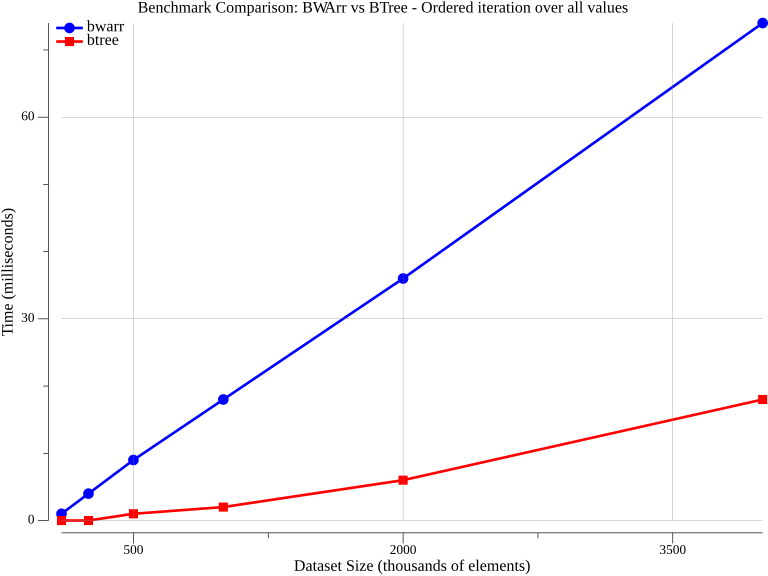
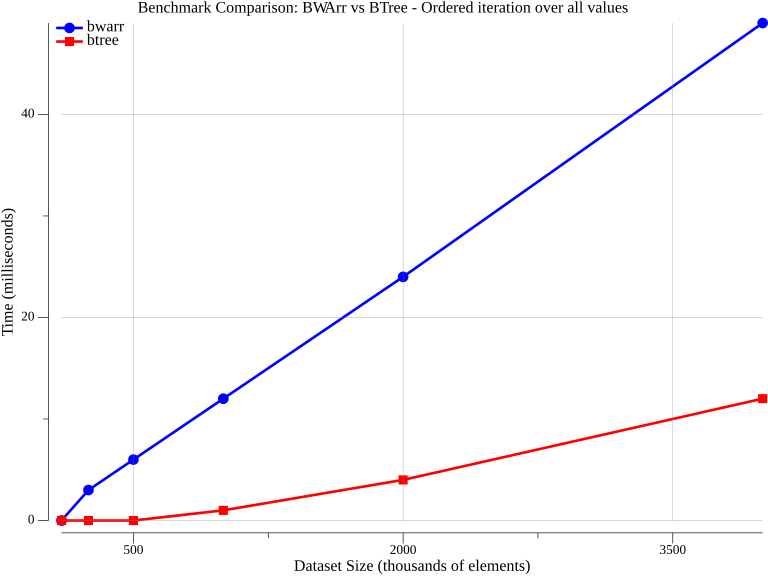
Update benchmark results against dronnix/bwarr v.1.2.0 (#6)
* Update to dronnix/bwarr v1.2.0

* Update go version

* Update golangci-lint version

diff --git a/benchmark/benchmark.go b/benchmark/benchmark.go
@@ -17,6 +17,18 @@ const (
 	BTreeDegree = 32
 )
 
+// newBWArrFromSlice builds a BWArr pre-populated with the given values.
+// It replaces bwarr.NewFromSlice, which was removed in bwarr v1.2.0.
+func newBWArrFromSlice(values []int64) *bwarr.BWArr[int64] {
+	bwa := bwarr.New(func(a, b int64) int {
+		return int(a - b)
+	}, len(values))
+	for _, v := range values {
+		bwa.Insert(v)
+	}
+	return bwa
+}
+
 // Comparison consists of multiple benchmark runs comparing two implementations.
 type Comparison struct {
 	Name           string
@@ -137,9 +149,7 @@ func BenchBTreeInsert(b *testing.B, params Params) {
 func BenchBWArrGet(b *testing.B, params Params) {
 	b.Helper()
 
-	bwa := bwarr.NewFromSlice(func(a, b int64) int {
-		return int(a - b)
-	}, params.InitValues)
+	bwa := newBWArrFromSlice(params.InitValues)
 
 	toFind := params.InitValues[:params.ElementsToApply] // TODO: use a better selection strategy (shuffle?)
 
@@ -186,9 +196,7 @@ func BenchBTreeGet(b *testing.B, params Params) {
 func BenchBWArrOrderedIterate(b *testing.B, params Params) {
 	b.Helper()
 
-	bwa := bwarr.NewFromSlice(func(a, b int64) int {
-		return int(a - b)
-	}, params.InitValues)
+	bwa := newBWArrFromSlice(params.InitValues)
 
 	// Reset timer to exclude any setup time
 	b.ResetTimer()
@@ -229,9 +237,7 @@ func BenchBTreeOrderedIterate(b *testing.B, params Params) {
 func BenchBWArrUnorderedIterate(b *testing.B, params Params) {
 	b.Helper()
 
-	bwa := bwarr.NewFromSlice(func(a, b int64) int {
-		return int(a - b)
-	}, params.InitValues)
+	bwa := newBWArrFromSlice(params.InitValues)
 
 	// Reset timer to exclude any setup time
 	b.ResetTimer()
@@ -250,11 +256,6 @@ func BenchBWArrUnorderedIterate(b *testing.B, params Params) {
 func BenchBTreeDelete(b *testing.B, params Params) {
 	b.Helper()
 
-	tree := btree.NewOrderedG[int64](BTreeDegree)
-	for _, v := range params.InitValues {
-		tree.ReplaceOrInsert(v)
-	}
-
 	toDel := params.InitValues[:params.ElementsToApply] // TODO: use a better selection strategy (shuffle?)
 
 	// Reset timer to exclude any setup time
@@ -262,6 +263,16 @@ func BenchBTreeDelete(b *testing.B, params Params) {
 
 	// Run b.N iterations (controlled by testing.B framework)
 	for range b.N {
+		// Stop timer during tree population (setup, not measured).
+		// A fresh tree per iteration so every iteration deletes real elements.
+		b.StopTimer()
+		tree := btree.NewOrderedG[int64](BTreeDegree)
+		for _, v := range params.InitValues {
+			tree.ReplaceOrInsert(v)
+		}
+		b.StartTimer()
+
+		// Measured operation: delete all values
 		for _, v := range toDel {
 			tree.Delete(v)
 		}
@@ -272,10 +283,6 @@ func BenchBTreeDelete(b *testing.B, params Params) {
 func BenchBWArrDelete(b *testing.B, params Params) {
 	b.Helper()
 
-	bwa := bwarr.NewFromSlice(func(a, b int64) int {
-		return int(a - b)
-	}, params.InitValues)
-
 	toDel := params.InitValues[:params.ElementsToApply] // TODO: use a better selection strategy (shuffle?)
 
 	// Reset timer to exclude any setup time
@@ -283,6 +290,13 @@ func BenchBWArrDelete(b *testing.B, params Params) {
 
 	// Run b.N iterations (controlled by testing.B framework)
 	for range b.N {
+		// Stop timer during bwa population (setup, not measured).
+		// A fresh bwa per iteration so every iteration deletes real elements.
+		b.StopTimer()
+		bwa := newBWArrFromSlice(params.InitValues)
+		b.StartTimer()
+
+		// Measured operation: delete all values
 		for _, v := range toDel {
 			bwa.Delete(v)
 		}

diff --git a/benchmark.md b/benchmark.md
@@ -3,7 +3,7 @@
 Performance comparison between [BWArr](https://github.com/dronnix/bwarr) and [Google BTree](https://github.com/google/btree) data structures across various operations.
 
 **Test Environment:**
-- Go 1.25.5
+- Go 1.26.8
 - BTree degree: 32
 - Dataset sizes: 100K, 250K, 500K, 1M, 2M, 4M elements
 - Random values: Full int64 range (math.MaxInt64)
